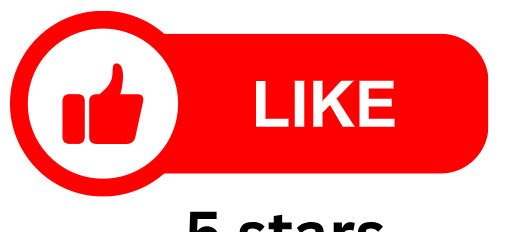
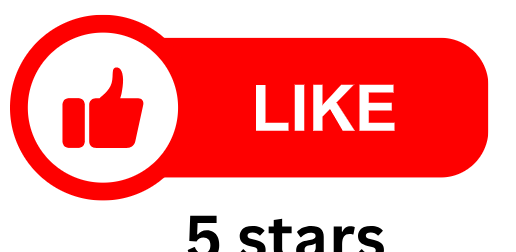
Fix the Rate us badge crop and drop the repeated 恭喜发财 label
The Rate us icon was cropped too short and lost the bottom of the LIKE badge. The 恭喜发财 tile showed the phrase twice - once in the artwork and again as its label - so the label is now just Lucky Numbers.

diff --git a/src/components/AppHome.tsx b/src/components/AppHome.tsx
@@ -68,7 +68,8 @@ export default function AppHome() {
   const actions: Tile[] = [
     { href: "/favourites", logo: HOME + "/favourite.png", name: "Favourite Numbers", zh: "收藏号码" },
     { href: "/dabogong", logo: HOME + "/dabogong.png", name: "大伯公", zh: "千字图" },
-    { href: "#", logo: HOME + "/gongxi.png", name: "Lucky Numbers", zh: "恭喜发财", lucky: true },
+    // The icon artwork already reads 恭喜发财, so no second Chinese label here.
+    { href: "#", logo: HOME + "/gongxi.png", name: "Lucky Numbers", lucky: true },
     { href: PLAY_URL, logo: HOME + "/rate-us.png", name: "Rate us 5 Stars", zh: "给我们五星" },
   ];
 
